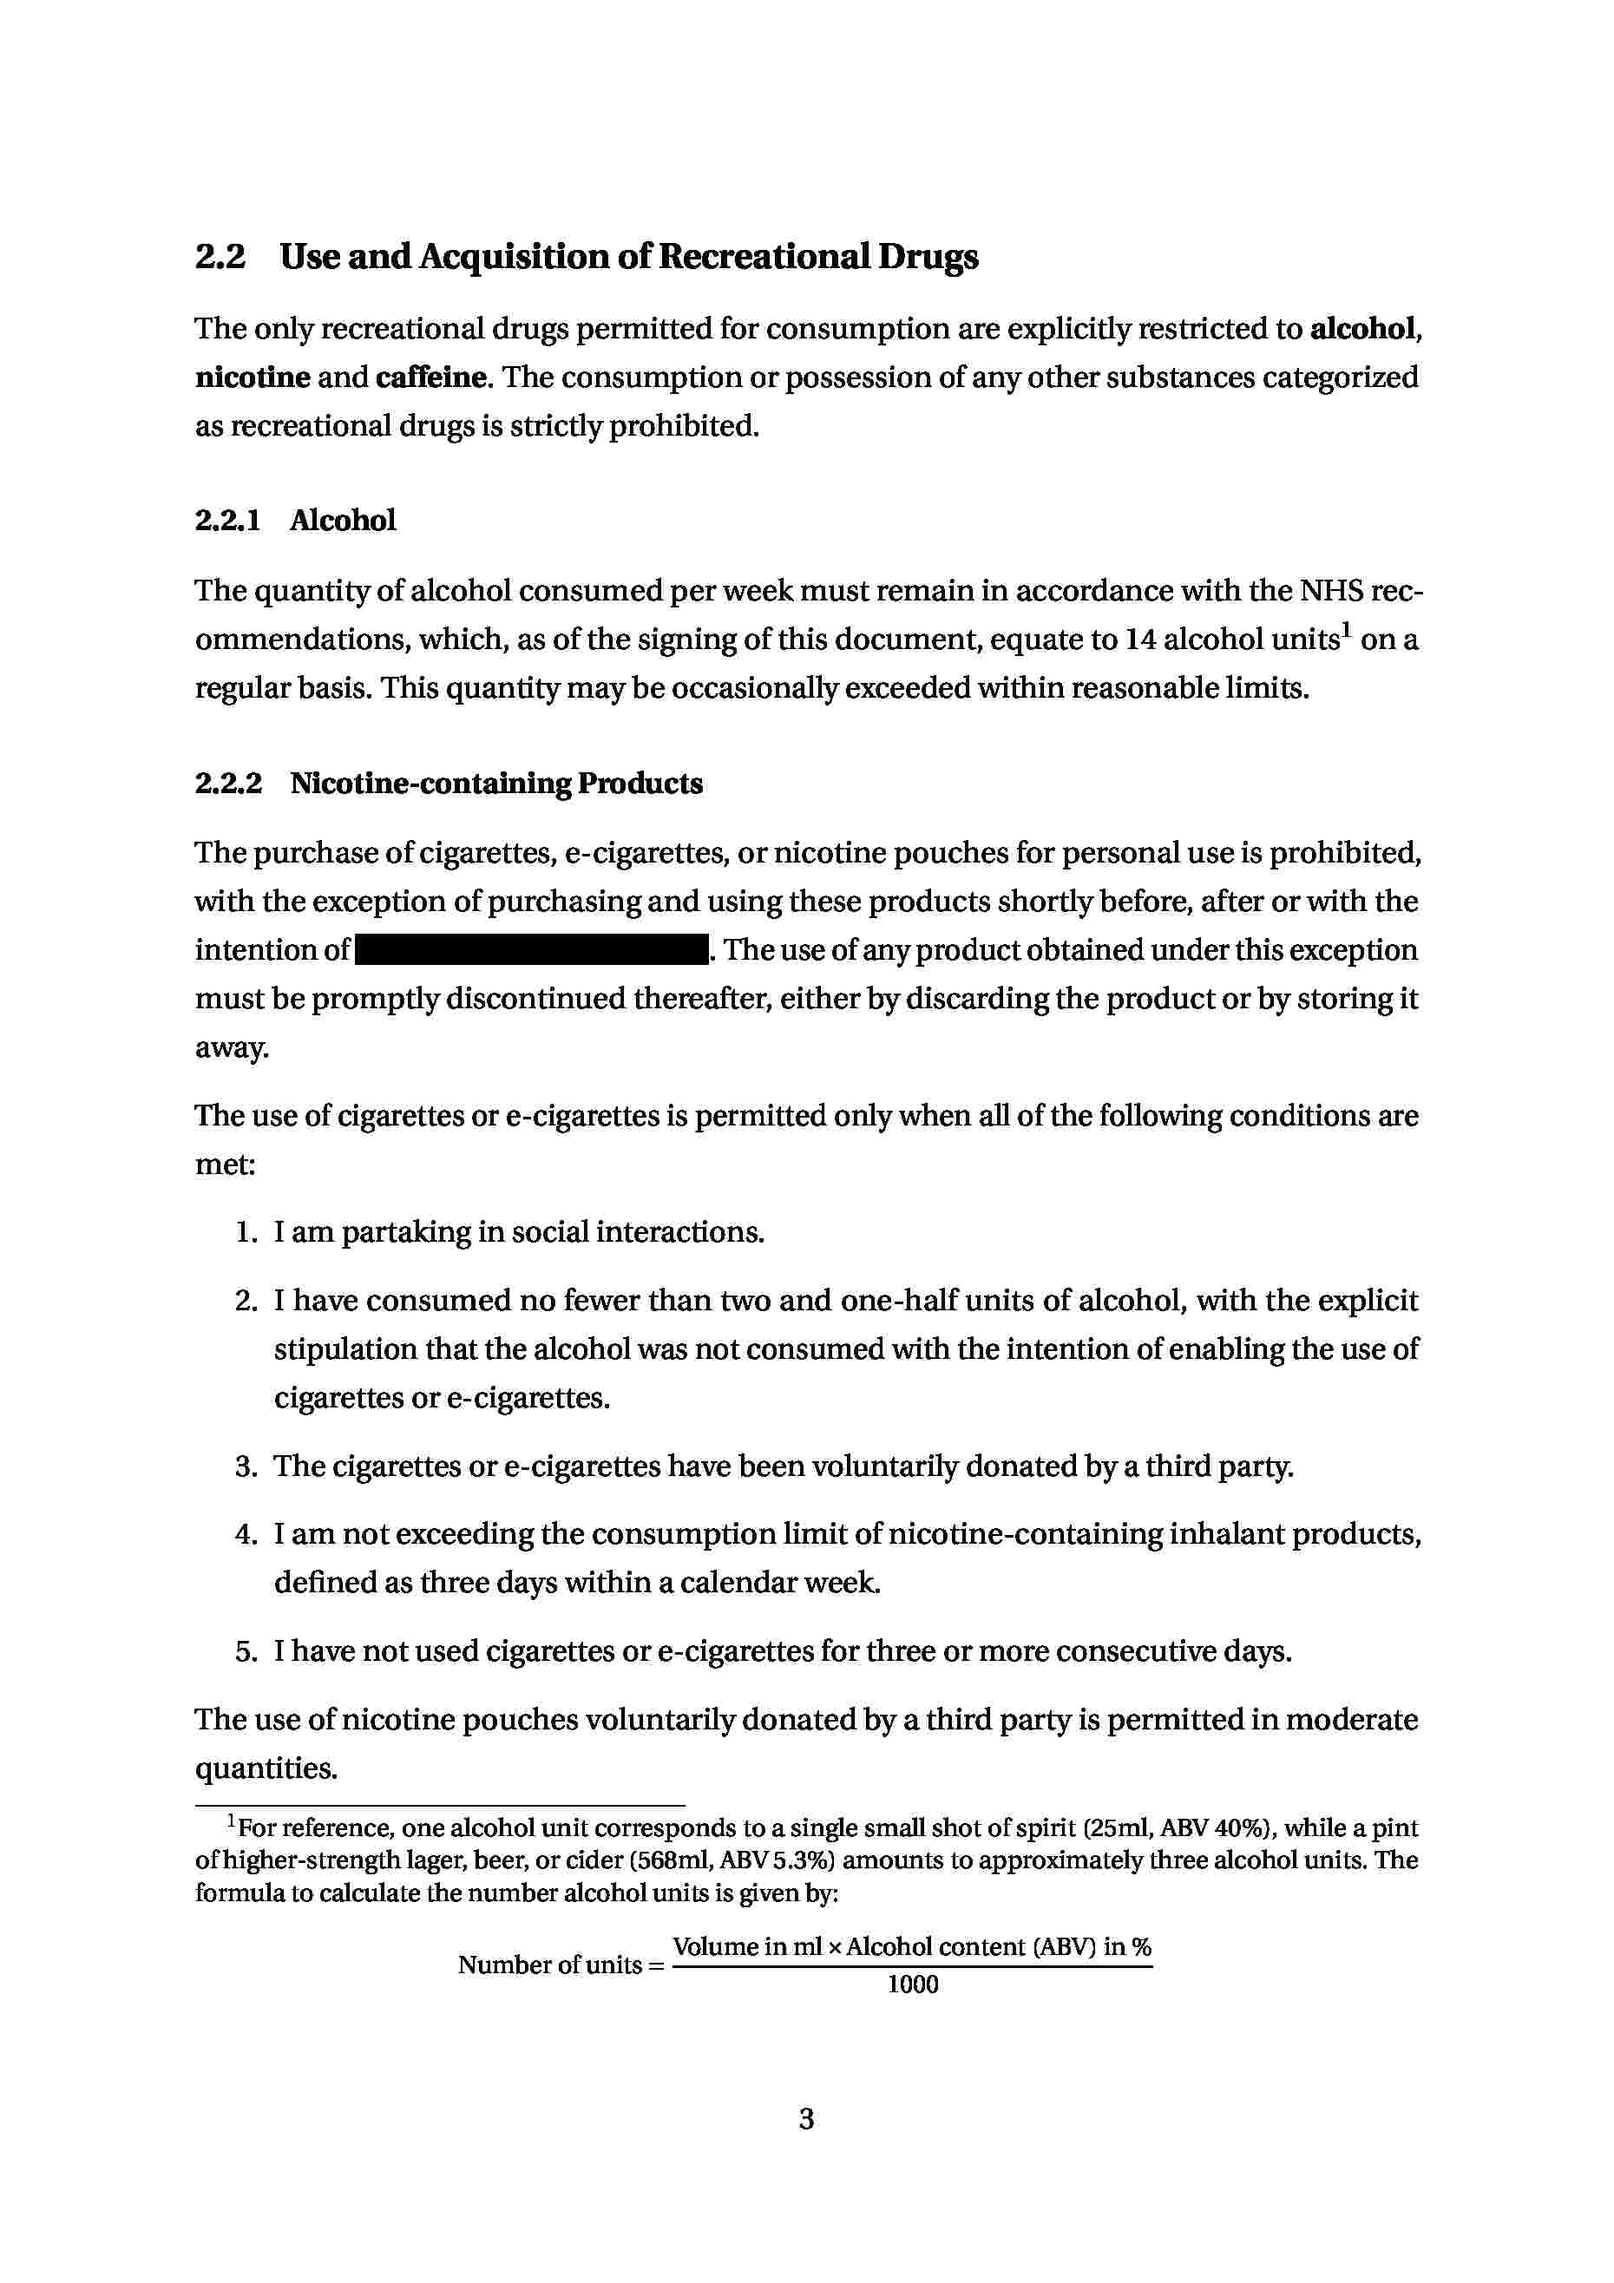
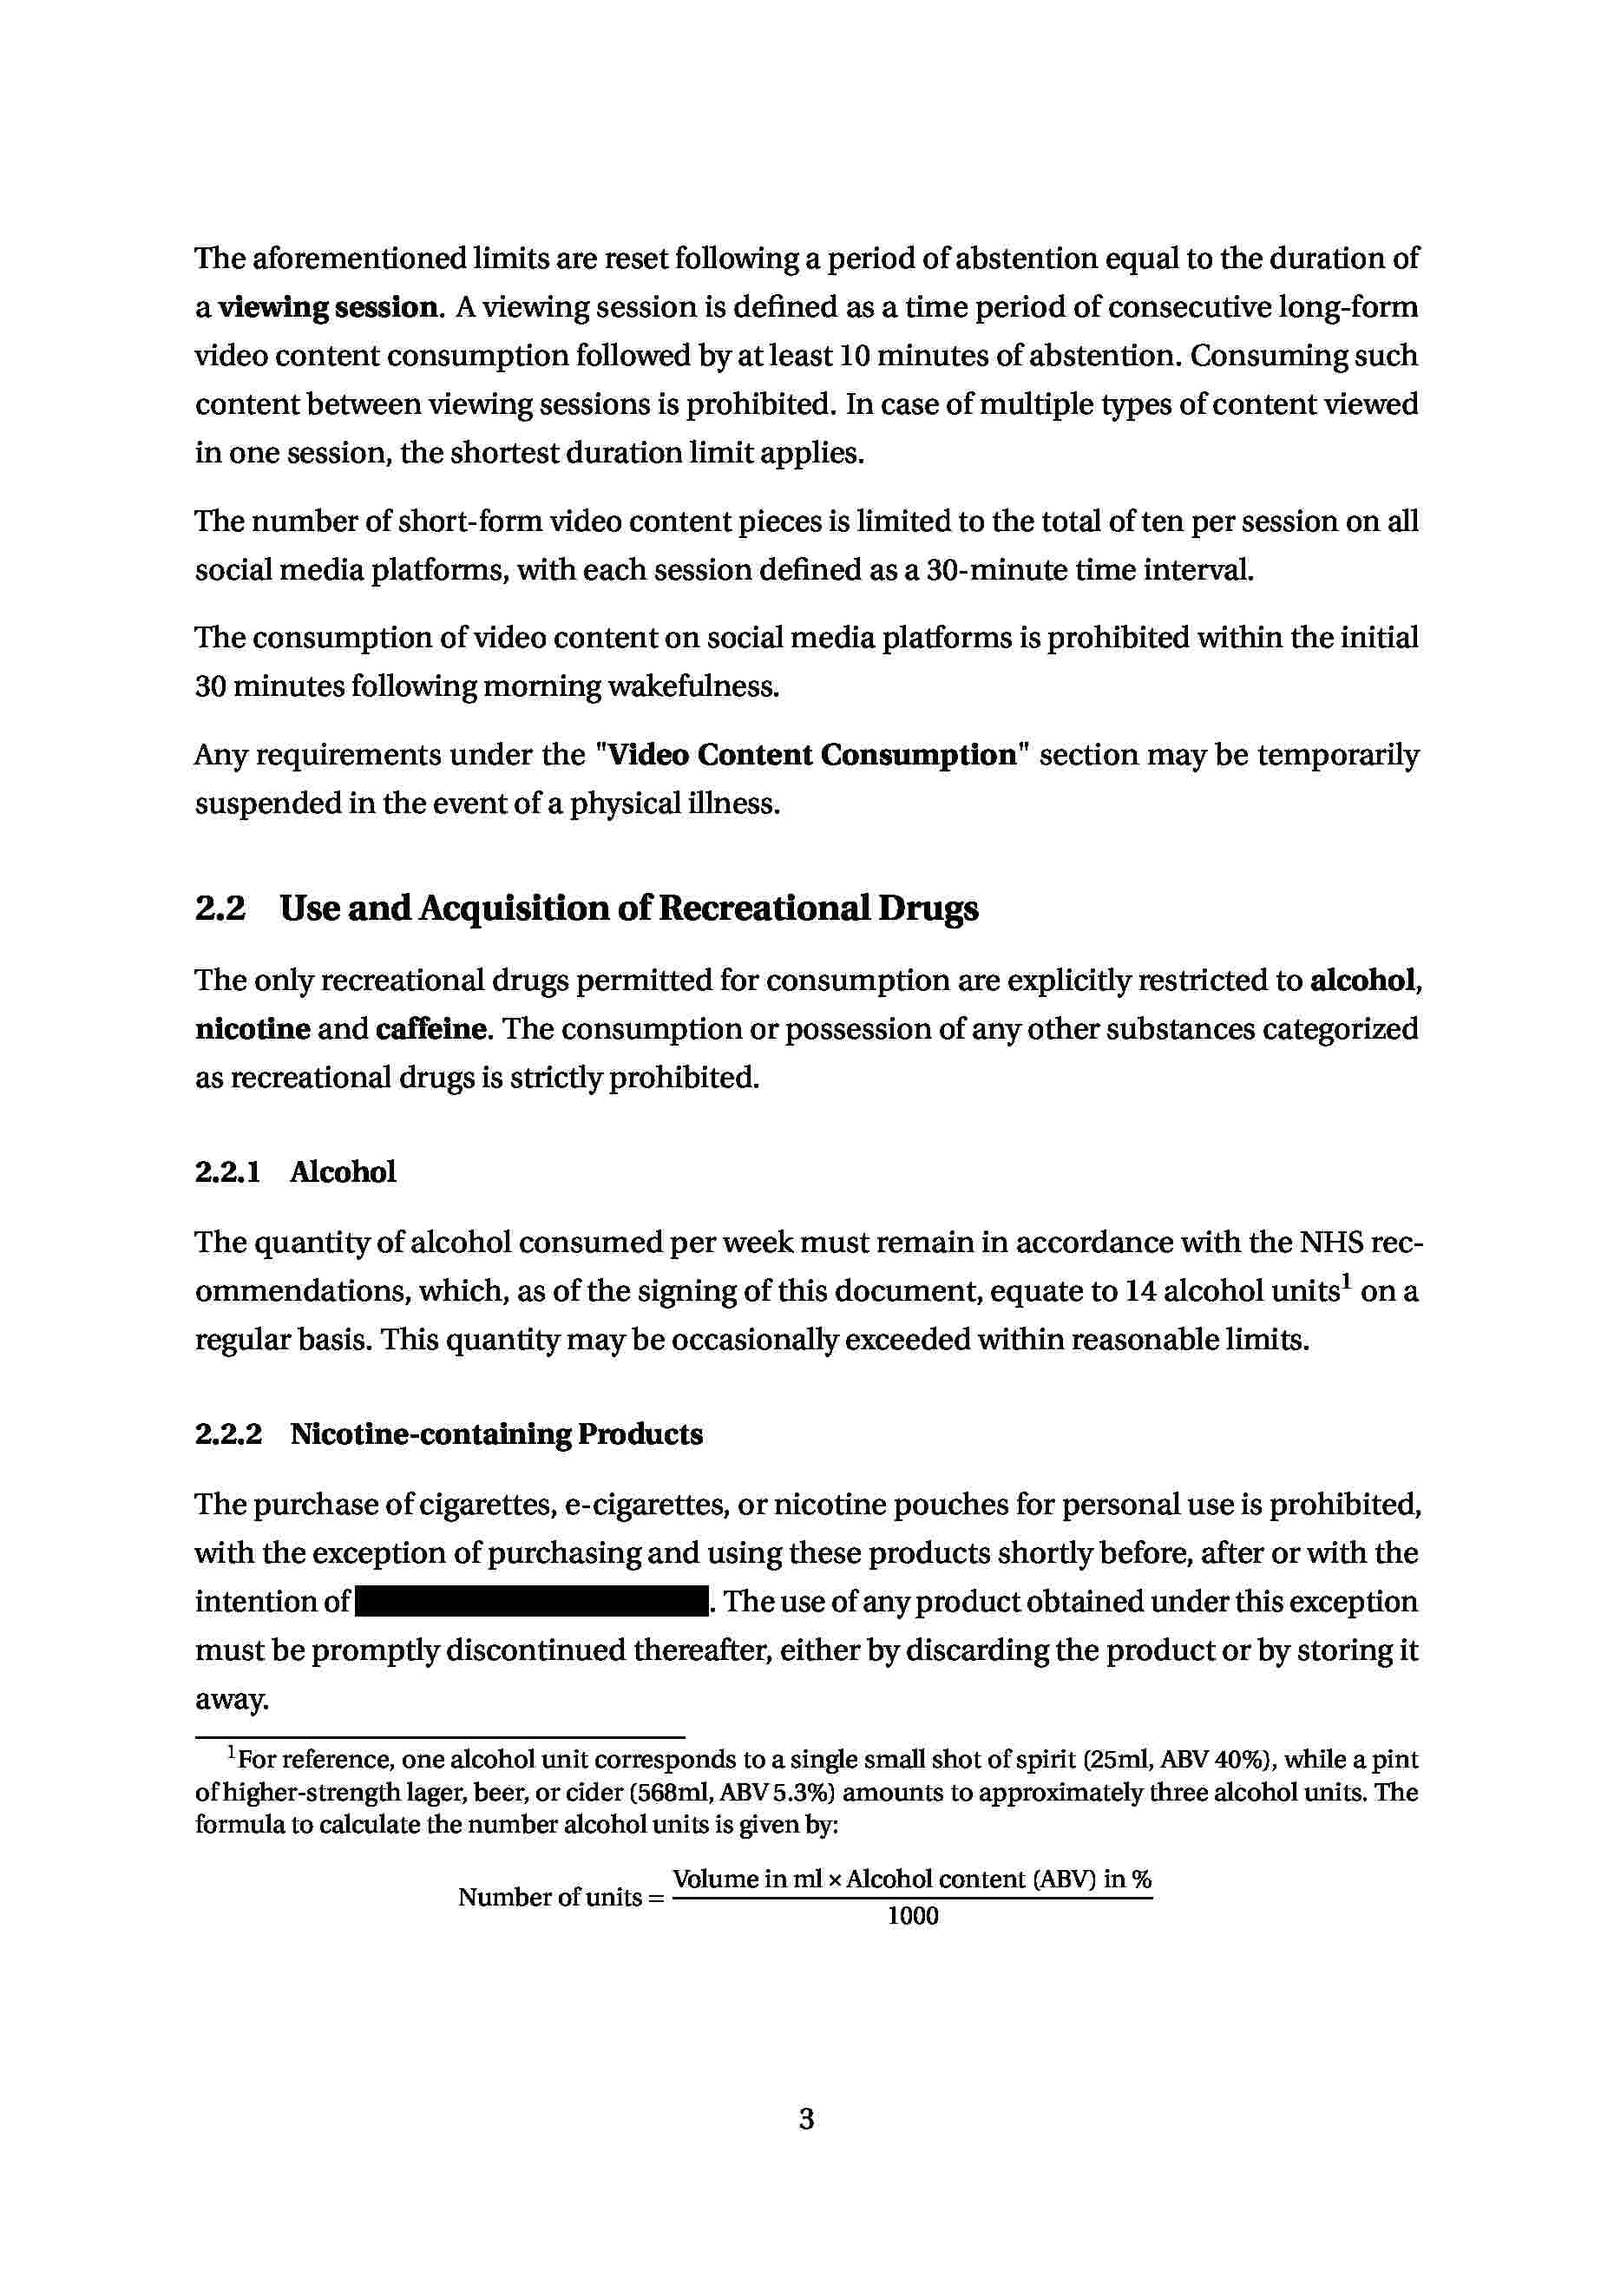
v2.2: New Phone Screen Time section, new obligations, amended video consumption rules

Changed region(s): [[0.1247, 0.0935, 0.9043, 0.8727]]

diff --git a/README.md b/README.md
@@ -51,4 +51,5 @@ which I'd rather not disclose to the entire world.
 [![The preview of the CCC](./previews/CCC-3.jpg)](./Cultivated%20Code%20of%20Conduct.pdf)
 [![The preview of the CCC](./previews/CCC-4.jpg)](./Cultivated%20Code%20of%20Conduct.pdf)
 [![The preview of the CCC](./previews/CCC-5.jpg)](./Cultivated%20Code%20of%20Conduct.pdf)
+[![The preview of the CCC](./previews/CCC-6.jpg)](./Cultivated%20Code%20of%20Conduct.pdf)
 <!--PREVIEWS FINISH-->
